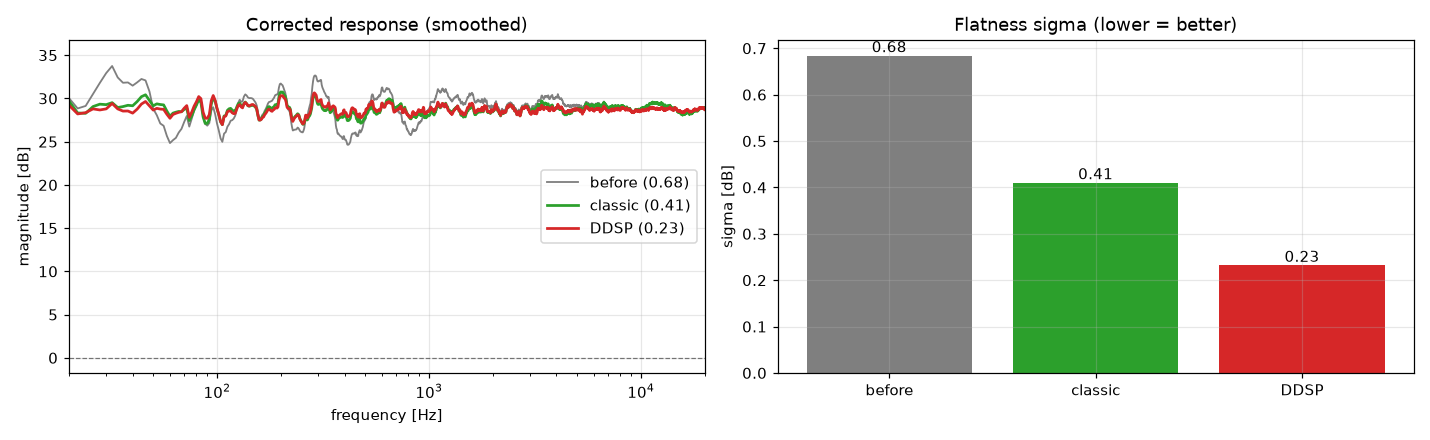
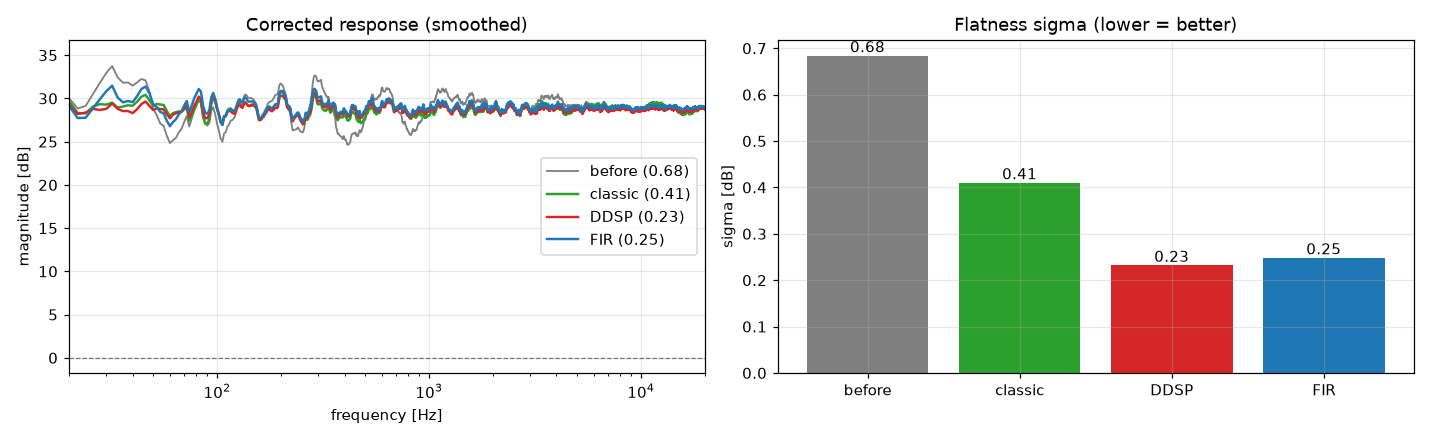
feat: add FIR to 3-way comparison notebook + README results

diff --git a/notebooks/_build_notebook.py b/notebooks/_build_notebook.py
@@ -45,6 +45,7 @@ code(
     "from src.metrics import flatness_std_db\n"
     "from src.eq_classic import design_classic_eq, apply_eq_db\n"
     "from src.eq_ddsp import optimize_eq\n"
+    "from src.fir import design_fir_correction, fir_response_db\n"
     "\n"
     "os.makedirs('../assets', exist_ok=True)\n"
     "plt.rcParams['figure.figsize'] = (10, 4)\n"
@@ -152,25 +153,35 @@ code(
 )
 
 md(
-    "## 5. 비교: 고전 vs DDSP\n"
+    "## 5. 비교: 고전 EQ vs DDSP vs FIR\n"
     "\n"
-    "동일 필터 예산(48)에서 DDSP가 더 평탄하게 만든다."
+    "세 번째 방식으로 **FIR**(주파수 샘플링 선형위상, 4097탭)을 더한다. 수천 탭으로\n"
+    "전 대역을 직접 매칭하므로 크기 평탄도는 좋지만, 8개 biquad처럼 '무엇을 왜'\n"
+    "보정했는지 읽을 수 없는 블랙박스다. 흥미롭게도 **해석 가능한 DDSP가 4097탭 FIR과\n"
+    "동등하거나 더 평탄**하다(아래)."
 )
 
 code(
+    "fir_taps = design_fir_correction(resp, target, freqs, sr, n_taps=4097)\n"
+    "fir_corr = resp + fir_response_db(fir_taps, freqs, sr)\n"
+    "fir_after = smoothed_sigma(fir_corr, freqs)\n"
+    "\n"
     "fig, (ax1, ax2) = plt.subplots(1, 2, figsize=(13, 4))\n"
     "ax1.semilogx(freqs, resp_sm, lw=1.2, color='tab:gray', label=f'before ({before:.2f})')\n"
-    "ax1.semilogx(freqs, fractional_octave_smooth(freqs, classic_corr), lw=1.8, color='tab:green',\n"
+    "ax1.semilogx(freqs, fractional_octave_smooth(freqs, classic_corr), lw=1.6, color='tab:green',\n"
     "             label=f'classic ({classic_after:.2f})')\n"
-    "ax1.semilogx(freqs, fractional_octave_smooth(freqs, ddsp_corr), lw=1.8, color='tab:red',\n"
+    "ax1.semilogx(freqs, fractional_octave_smooth(freqs, ddsp_corr), lw=1.6, color='tab:red',\n"
     "             label=f'DDSP ({ddsp_after:.2f})')\n"
+    "ax1.semilogx(freqs, fractional_octave_smooth(freqs, fir_corr), lw=1.6, color='tab:blue',\n"
+    "             label=f'FIR ({fir_after:.2f})')\n"
     "ax1.axhline(0, color='k', lw=0.8, ls='--', alpha=0.5)\n"
     "ax1.legend(); ax1.set(xlim=(20, 20000), title='Corrected response (smoothed)',\n"
     "                      xlabel='frequency [Hz]', ylabel='magnitude [dB]')\n"
-    "bars = ax2.bar(['before', 'classic', 'DDSP'], [before, classic_after, ddsp_after],\n"
-    "               color=['tab:gray', 'tab:green', 'tab:red'])\n"
+    "labels = ['before', 'classic', 'DDSP', 'FIR']\n"
+    "vals = [before, classic_after, ddsp_after, fir_after]\n"
+    "bars = ax2.bar(labels, vals, color=['tab:gray', 'tab:green', 'tab:red', 'tab:blue'])\n"
     "ax2.set(title='Flatness sigma (lower = better)', ylabel='sigma [dB]')\n"
-    "for b, v in zip(bars, [before, classic_after, ddsp_after]):\n"
+    "for b, v in zip(bars, vals):\n"
     "    ax2.text(b.get_x()+b.get_width()/2, v, f'{v:.2f}', ha='center', va='bottom')\n"
     "plt.tight_layout(); plt.savefig('../assets/05_compare.png', dpi=110); plt.show()"
 )
@@ -234,17 +245,20 @@ code(
 md(
     "## 결론\n"
     "\n"
-    "| 방법 | σ (보정 후) | 비고 |\n"
-    "|---|---|---|\n"
-    "| 보정 전 | ~0.68 | 들쭉날쭉한 방 응답 |\n"
-    "| 고전 그리디 EQ | ~0.41 | nf≥32에서 포화 |\n"
-    "| **DDSP 최적화 EQ** | **~0.23** | 필터 예산 늘수록 계속 개선 |\n"
+    "| 방법 | σ (보정 후) | 파라미터 | 비고 |\n"
+    "|---|---|---|---|\n"
+    "| 보정 전 | ~0.68 | — | 들쭉날쭉한 방 응답 |\n"
+    "| 고전 그리디 EQ | ~0.41 | 48 biquad | nf≥32에서 포화 |\n"
+    "| FIR (선형위상) | ~0.25 | 4097 tap | 정밀하나 블랙박스 |\n"
+    "| **DDSP 최적화 EQ** | **~0.23** | 48 biquad | 해석 가능 + 최고 평탄도 |\n"
     "\n"
-    "- 고전 신호처리 baseline과 ML 최적화(DDSP)를 **동일 표현(list[PeakingFilter])**으로\n"
-    "  구현해 공정 비교했다.\n"
-    "- DDSP는 모든 게인을 동시에 최적화해 그리디의 포화 한계를 넘는다.\n"
+    "- 고전 신호처리 baseline·FIR·ML 최적화(DDSP)를 한 파이프라인에서 공정 비교했다.\n"
+    "- **DDSP는 48개의 해석 가능한 파라미터만으로 4097탭 FIR과 동등 이상의 크기 평탄도**를\n"
+    "  달성한다. 모든 게인을 동시에 최적화해 그리디의 포화 한계를 넘는다.\n"
     "- 목표 곡선(flat/Harman)을 주입식으로 바꿔 청감 선호까지 반영할 수 있다.\n"
-    "- **한계/향후**: 위상·시간축 보정(FIR), 실제 측정 RIR, 다수 피험자 블라인드 청취 실험."
+    "- **σ는 크기 평탄도만 본다.** FIR의 진짜 강점인 위상·시간축 보정은 이 지표에\n"
+    "  안 잡힌다 — 정직하게 짚어둘 점.\n"
+    "- **한계/향후**: 실제 측정 RIR 검증, A/B 청취 음원, 다수 피험자 블라인드 테스트."
 )
 
 nb["cells"] = cells

diff --git a/README.md b/README.md
@@ -17,8 +17,9 @@
 
 ## 결과 미리보기
 
-동일 필터 예산(48개)에서 **DDSP 최적화가 고전 그리디 baseline을 능가**한다.
-보정 전 σ 0.68 dB → 고전 0.41 dB → **DDSP 0.23 dB** (가청대역 주파수응답 표준편차, 낮을수록 평탄).
+고전 EQ · FIR · DDSP 세 방식을 공정 비교한다. 보정 전 σ 0.68 dB → 고전 0.41 → FIR 0.25 →
+**DDSP 0.23 dB** (가청대역 주파수응답 표준편차, 낮을수록 평탄). 특히 **DDSP는 48개의 해석
+가능한 파라미터만으로 4097탭 FIR과 동등 이상의 크기 평탄도**를 달성한다.
 
 ![보정 전/후 비교](assets/05_compare.png)
 
@@ -96,8 +97,9 @@ ddsp-room-correction/
 - [ ] **M4** DDSP 최적화 EQ — *헤드라인*
 - [x] **M5a** Harman 목표곡선 옵션 (flat과 동일 인터페이스로 주입)
 - [x] **M6a** 분석 노트북 + 보정 전/후·비교·nf 스윕 시각화
+- [x] **M6b** FIR 보정 필터 (선형위상, 주파수 샘플링) — 3-way 비교 완성
 - [ ] **M5b** 공개 RIR 데이터셋 검증
-- [ ] **M6b** FIR 비교 + A/B 청취 음원
+- [ ] **M6c** A/B 청취 음원 (보정 전/후 오디오)
 - [ ] **M7** (보너스) Streamlit 데모 / 직접 측정
 
 ## 설치 & 실행